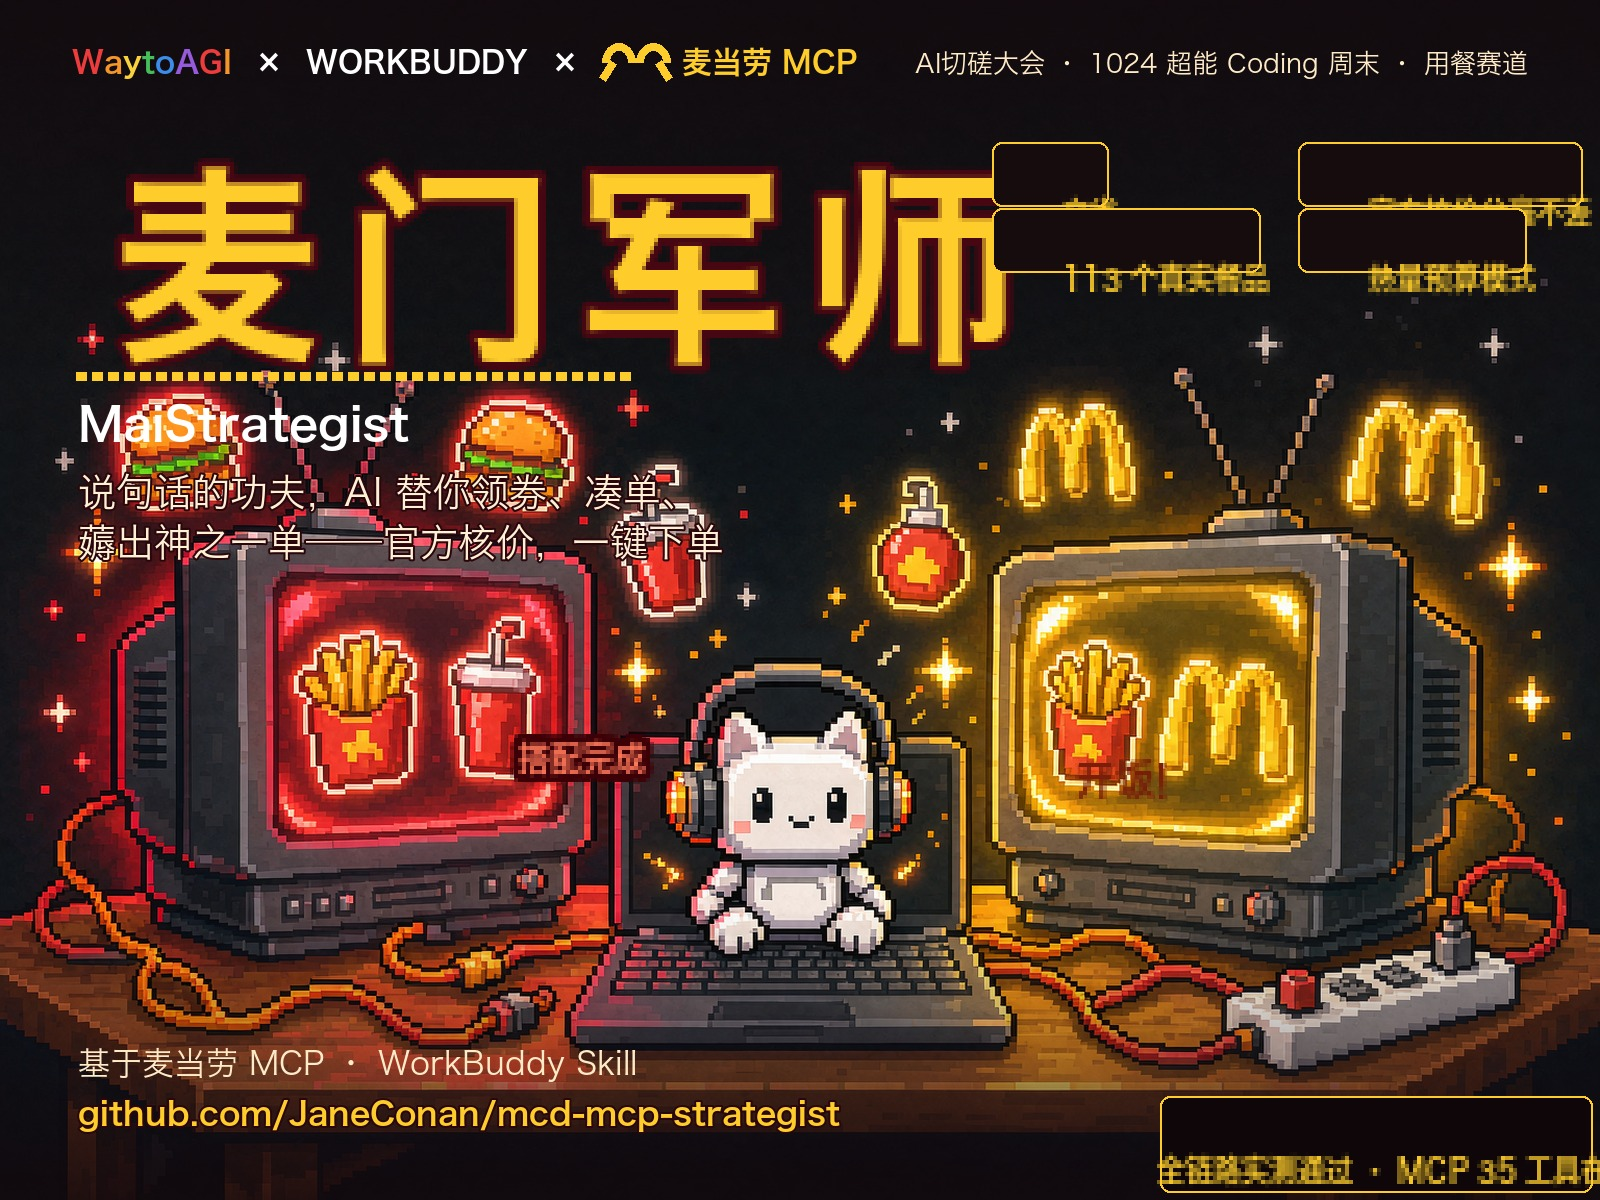
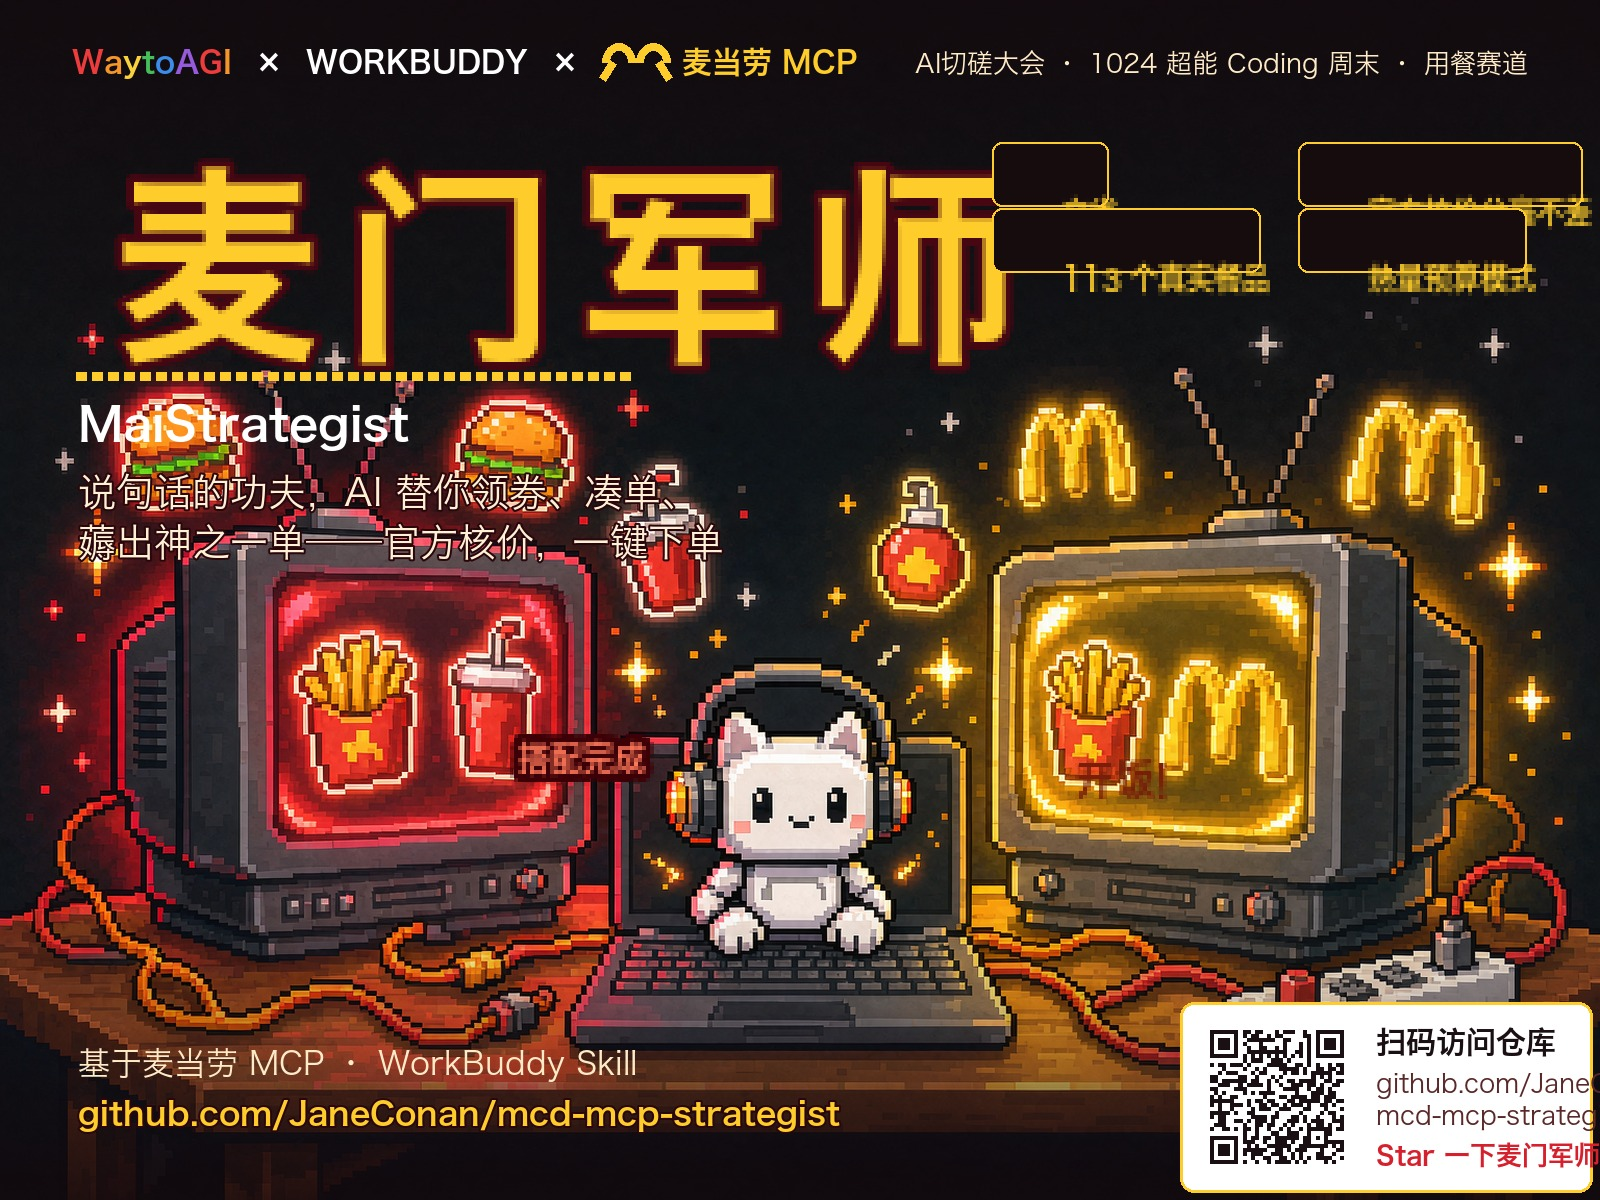
style: 封面右下改二维码卡片——扫码直达仓库，OpenCV 实测 PNG/JPG 均可解码
- 白底金边卡片: QR(qrcode 库, M 级纠错) + 扫码访问仓库 + URL + Star 引导
- 移除原'全链路实测'徽标(用户反馈不好看); 二维码区顺势遮盖 AI 水印

Changed region(s): [[0.7188, 0.8325, 1.0, 1.0]]

diff --git a/scripts/make_cover.py b/scripts/make_cover.py
@@ -183,14 +183,29 @@ def main():
            font=font(32, True), fill=GOLD, stroke_width=2,
            stroke_fill=(40, 6, 12))
 
-    # ---- 右下：盖住 AI 水印 + 核验徽标 ----
-    d.rounded_rectangle([1160, 1096, W - 8, H - 8], radius=10,
-                        fill=(14, 6, 8, 235), outline=(255, 205, 43, 190), width=2)
-    f_ok = font(30, True)
-    txt = "全链路实测通过 · MCP 35 工具在线"
-    tw = d.textlength(txt, font=f_ok)
-    pixel_text(bg, (int(1160 + (W - 8 - 1160 - tw * 1) // 2), 1112), txt, 30,
-               GOLD, bold=True)
+    # ---- 右下：二维码卡片（盖住 AI 水印，扫码直达仓库） ----
+    try:
+        import qrcode
+        qr = qrcode.QRCode(error_correction=qrcode.constants.ERROR_CORRECT_M,
+                           box_size=10, border=2)
+        qr.add_data("https://github.com/JaneConan/mcd-mcp-strategist")
+        qr.make(fit=True)
+        qr_img = qr.make_image(fill_color="#1a1014", back_color="white").convert("RGB")
+        qr_size = 150
+        qr_img = qr_img.resize((qr_size, qr_size), Image.NEAREST)
+        card = [1180, 1002, W - 8, H - 8]
+        d.rounded_rectangle(card, radius=14, fill=(255, 255, 255, 245),
+                            outline=GOLD, width=3)
+        bg.paste(qr_img, (card[0] + 22, card[1] + 20))
+        tx = card[0] + 22 + qr_size + 24
+        d.text((tx, card[1] + 24), "扫码访问仓库", font=font(30, True), fill=INK)
+        d.text((tx, card[1] + 68), "github.com/JaneConan/", font=font(26),
+               fill=(90, 40, 40))
+        d.text((tx, card[1] + 100), "mcd-mcp-strategist", font=font(26),
+               fill=(90, 40, 40))
+        d.text((tx, card[1] + 140), "Star 一下麦门军师", font=font(26, True), fill=RED)
+    except ImportError:
+        print("提示: pip install qrcode 后可生成右下角二维码")
 
     bg.convert("RGB").save(OUT_PNG, "PNG")
     bg.convert("RGB").save(OUT_JPG, "JPEG", quality=92)
